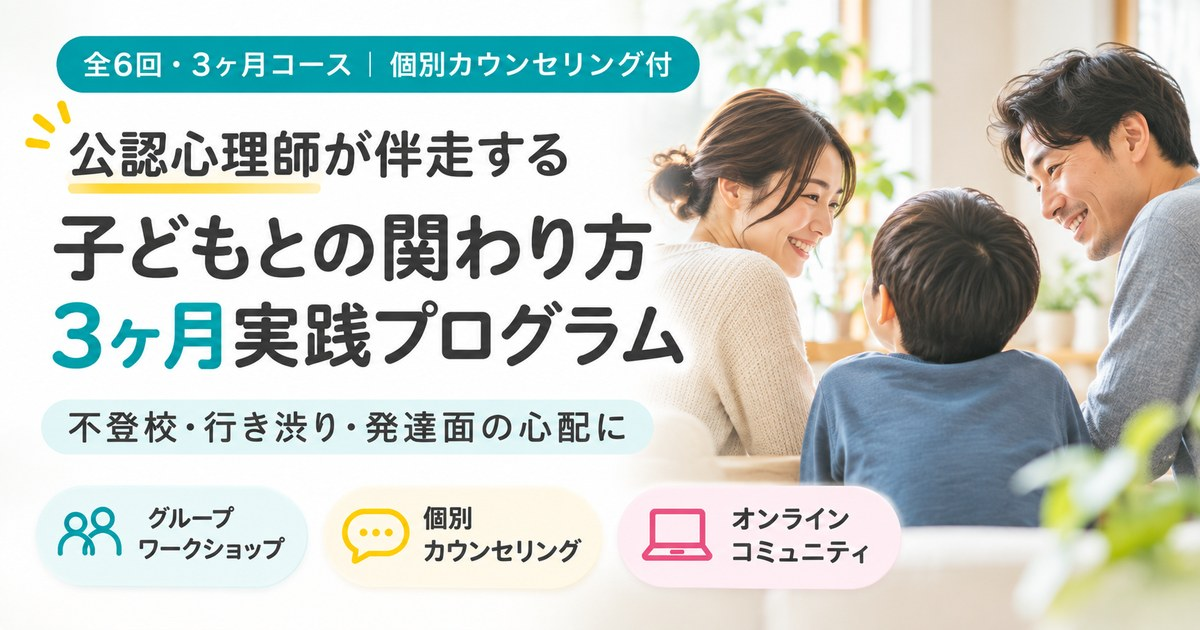
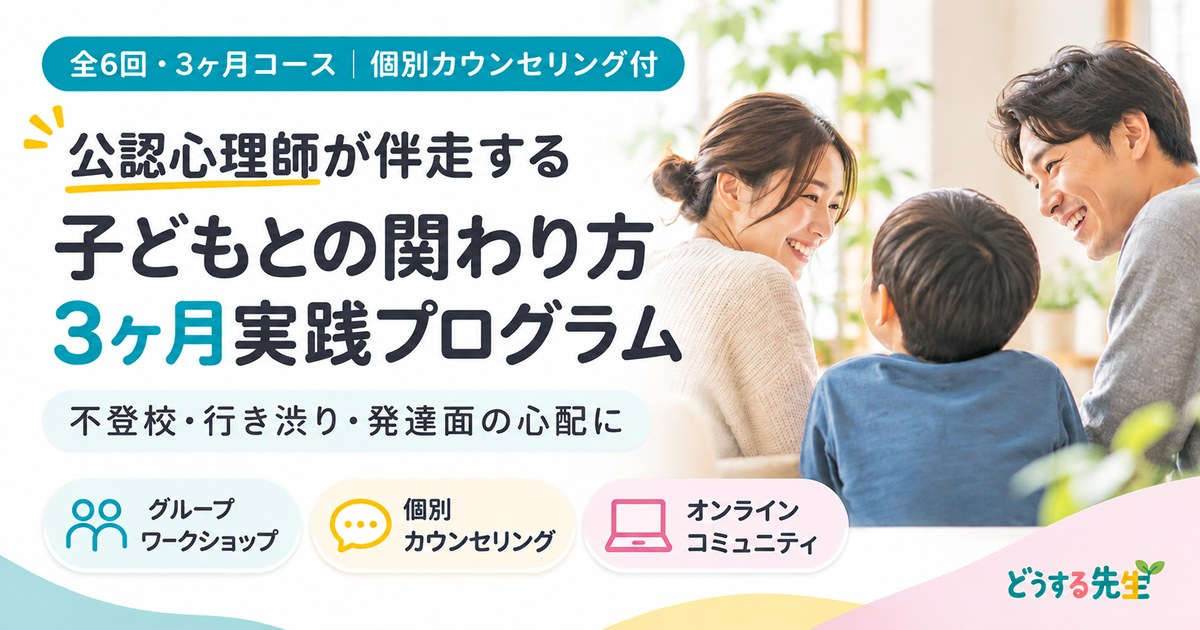
oyako-program: OGP画像にどうする先生ロゴを追加
ChatGPTで作成した、右下にロゴ（波形の装飾付き）を自然に合成した
バージョンに差し替え。

Claude-Session: https://claude.ai/code/session_01GrtDLyd1eP1Bri3tiyuPor

diff --git a/app/oyako-program/page.tsx b/app/oyako-program/page.tsx
@@ -38,11 +38,6 @@ export const metadata: Metadata = {
     title: `公認心理師が伴走する、子どもとの関わり方3ヶ月実践プログラム`,
     description: `不登校・行き渋り・発達特性など、子どもとの関わり方に迷う保護者向けの3ヶ月間プログラム。現役スクールカウンセラーである公認心理師が、ワークショップ・個別カウンセリング・オンラインコミュニティで実践的に伴走します。`,
   },
-  twitter: {
-    card: 'summary_large_image',
-    title: `公認心理師が伴走する、子どもとの関わり方3ヶ月実践プログラム`,
-    description: `不登校・行き渋り・発達特性など、子どもとの関わり方に迷う保護者向けの3ヶ月間プログラム。現役スクールカウンセラーである公認心理師が実践的に伴走します。`,
-  },
 };
 
 const FAQ_JSONLD = `{"@context": "https://schema.org", "@type": "FAQPage", "mainEntity": [{"@type": "Question", "name": "発達の診断を受けていなくても参加できますか？", "acceptedAnswer": {"@type": "Answer", "text": "はい、診断の有無は問いません。発達特性があるかどうかにかかわらず、ご参加いただけます。"}}, {"@type": "Question", "name": "不登校ではなく、行き渋り程度でも対象になりますか？", "acceptedAnswer": {"@type": "Answer", "text": "はい。不登校に限らず、お子さんとの関わり方に迷いや不安がある方であれば対象です。"}}, {"@type": "Question", "name": "対象は小学生〜高校生くらいとなっていますが、未就学児でも参加できますか？", "acceptedAnswer": {"@type": "Answer", "text": "対象の目安は小学生〜高校生くらいのお子さんですが、未就学児の方でもご希望があればご相談ください。"}}, {"@type": "Question", "name": "医療的な相談や診断もしてもらえますか？", "acceptedAnswer": {"@type": "Answer", "text": "本プログラムは診断や治療を行うものではありません。気づきと、必要に応じた相談先のご案内に範囲を限ります。"}}, {"@type": "Question", "name": "途中でやめることはできますか？キャンセルの場合、返金はありますか？", "acceptedAnswer": {"@type": "Answer", "text": "ご都合によるお取消・ご退会については、原則として返金はいたしかねます。なお、最少催行人数（4名）に満たず開催自体を中止する場合は、全額返金いたします。"}}, {"@type": "Question", "name": "欠席した場合、アーカイブ（録画）はありますか？", "acceptedAnswer": {"@type": "Answer", "text": "グループワークでは参加者同士の個人的なお話もうかがうため、全体の録画はおこなっておりません。欠席された回については、公認心理師による専門的な解説部分のみを録画し、後日共有いたします。"}}, {"@type": "Question", "name": "個人情報やLINEでのやり取りの扱いについて教えてください。", "acceptedAnswer": {"@type": "Answer", "text": "ご登録いただいた情報やオンラインコミュニティでの投稿内容は、本プログラムの運営以外の目的には使用しません。"}}, {"@type": "Question", "name": "夫婦で参加することはできますか？", "acceptedAnswer": {"@type": "Answer", "text": "はい。おひとり分のお申し込みで、ご夫婦お二人でご参加いただけます。お二人目は半額（¥34,900）です。個別カウンセリング（オンライン）は1回45分、お二人そろって同じ画面でご参加いただく形です（アカウントは1つ）。オンラインコミュニティなどのコミュニティは、お二人それぞれのアカウントでご参加いただけます。"}}]}`;
